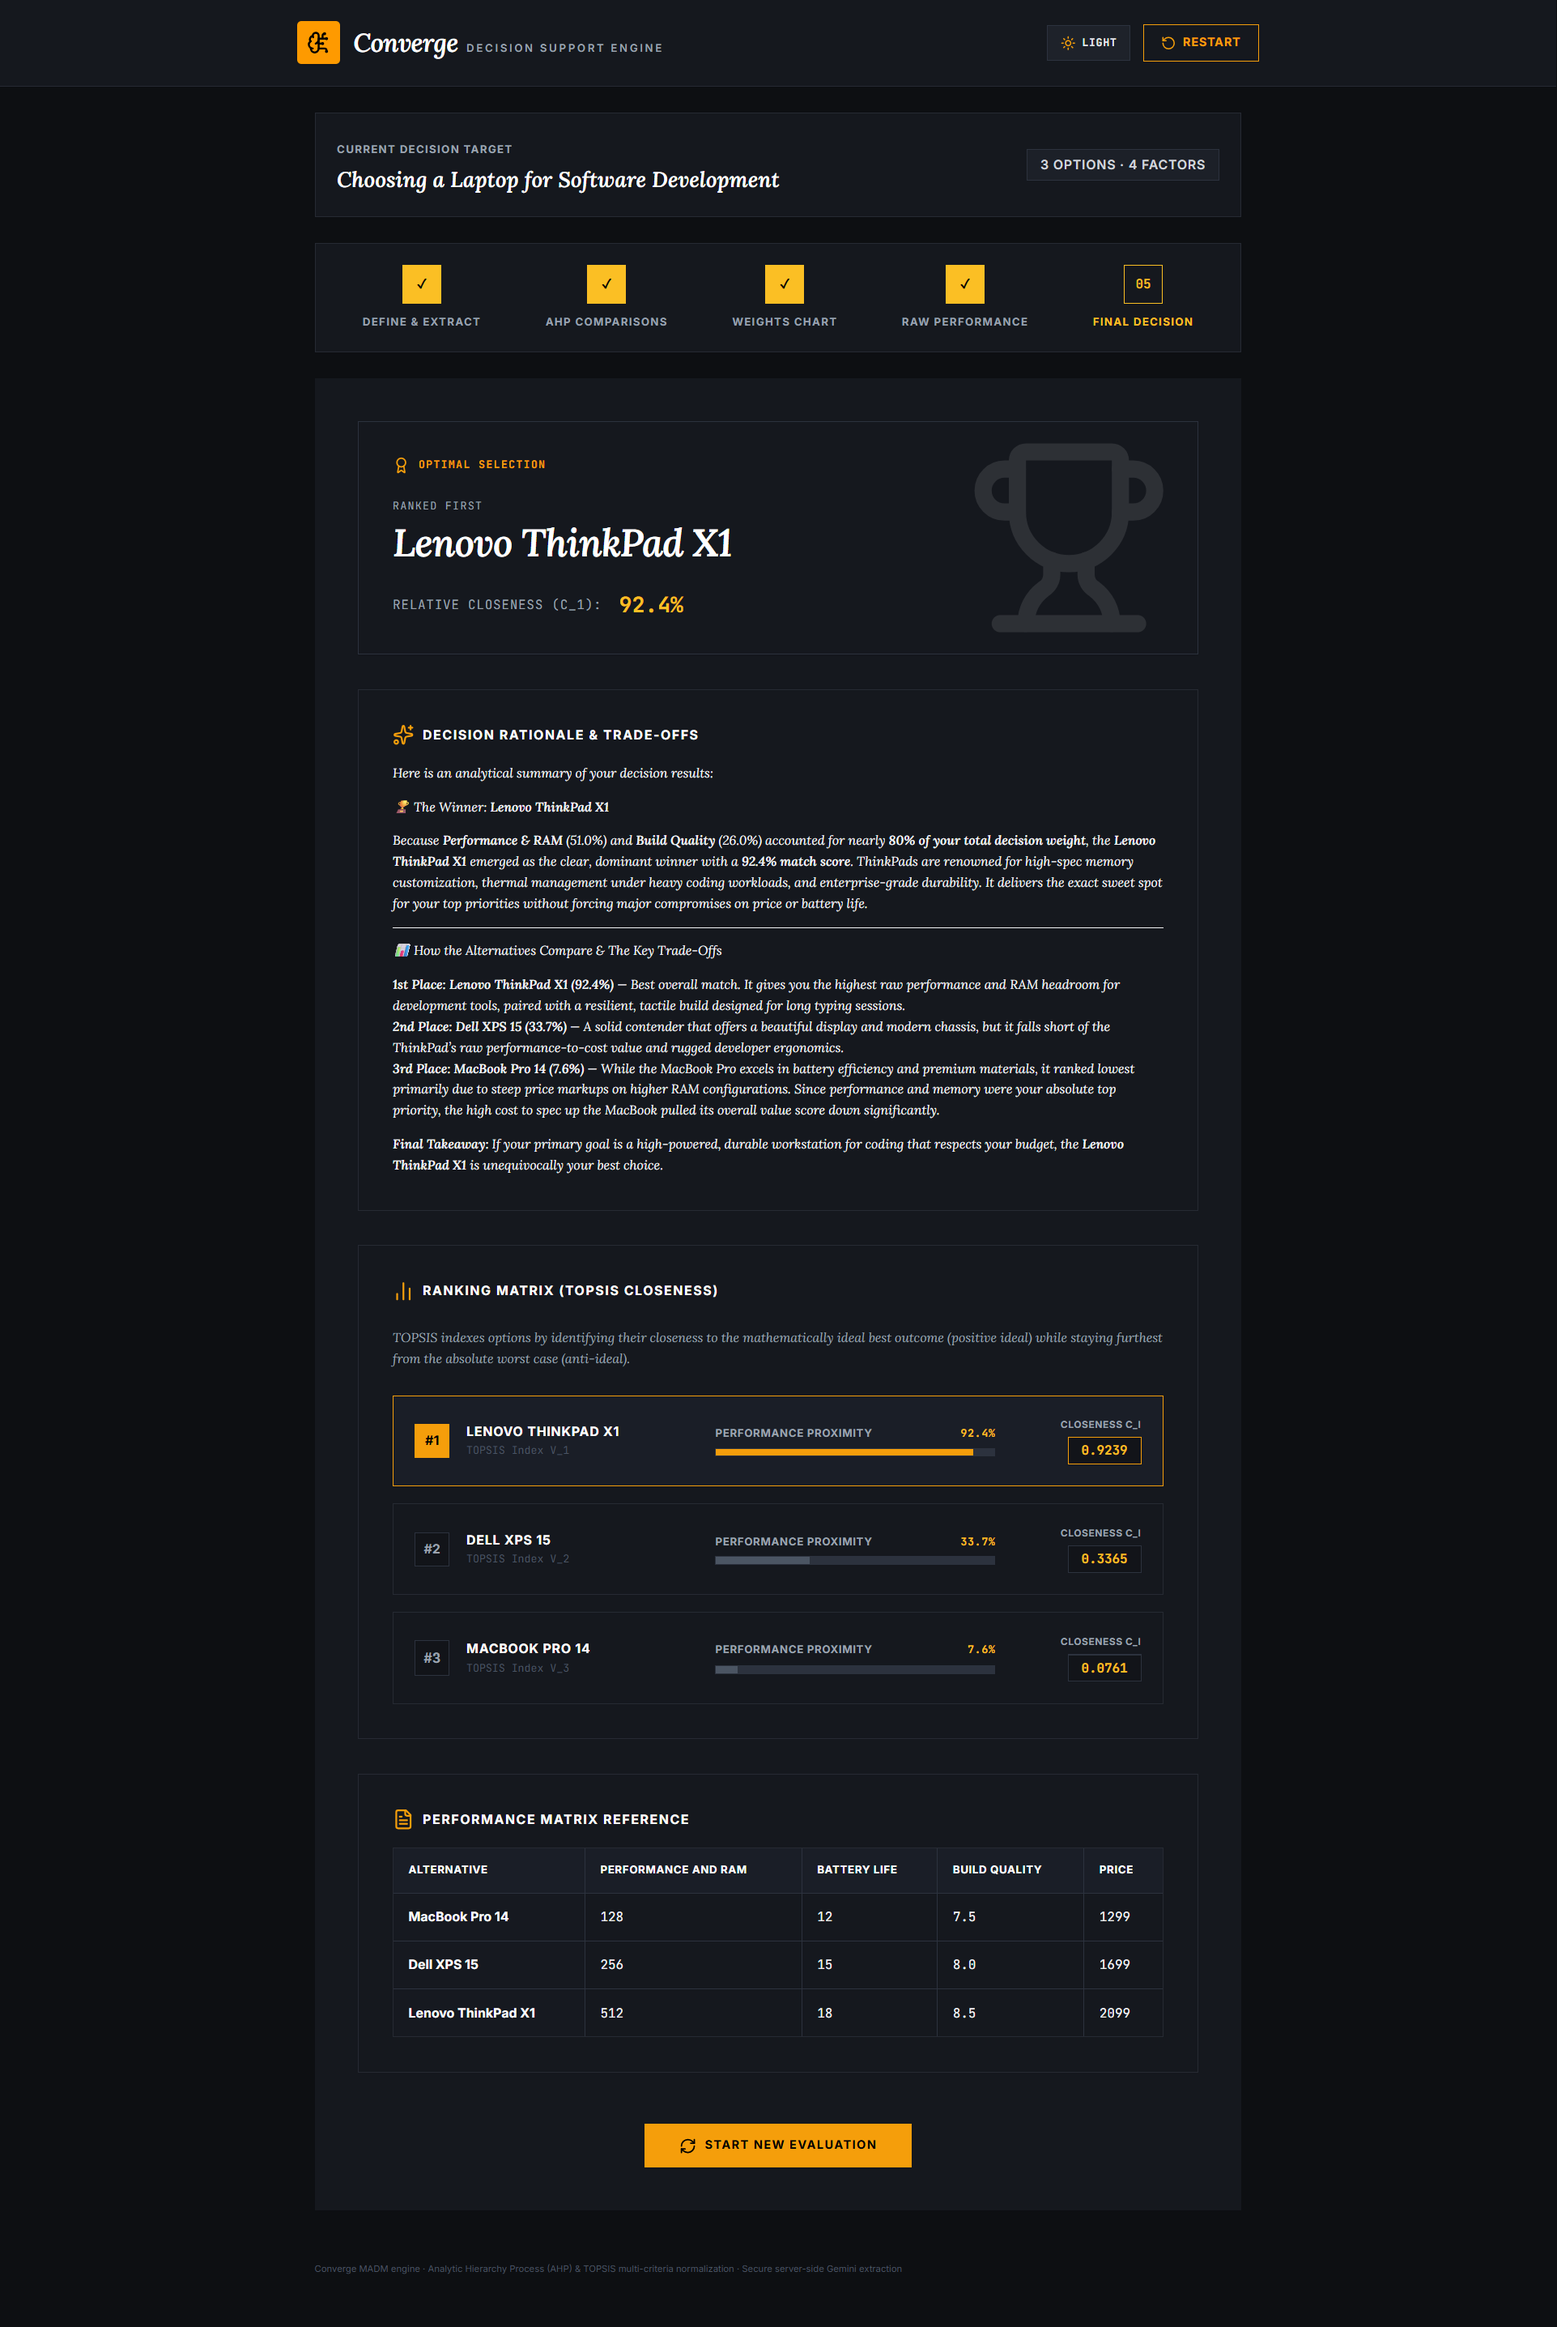
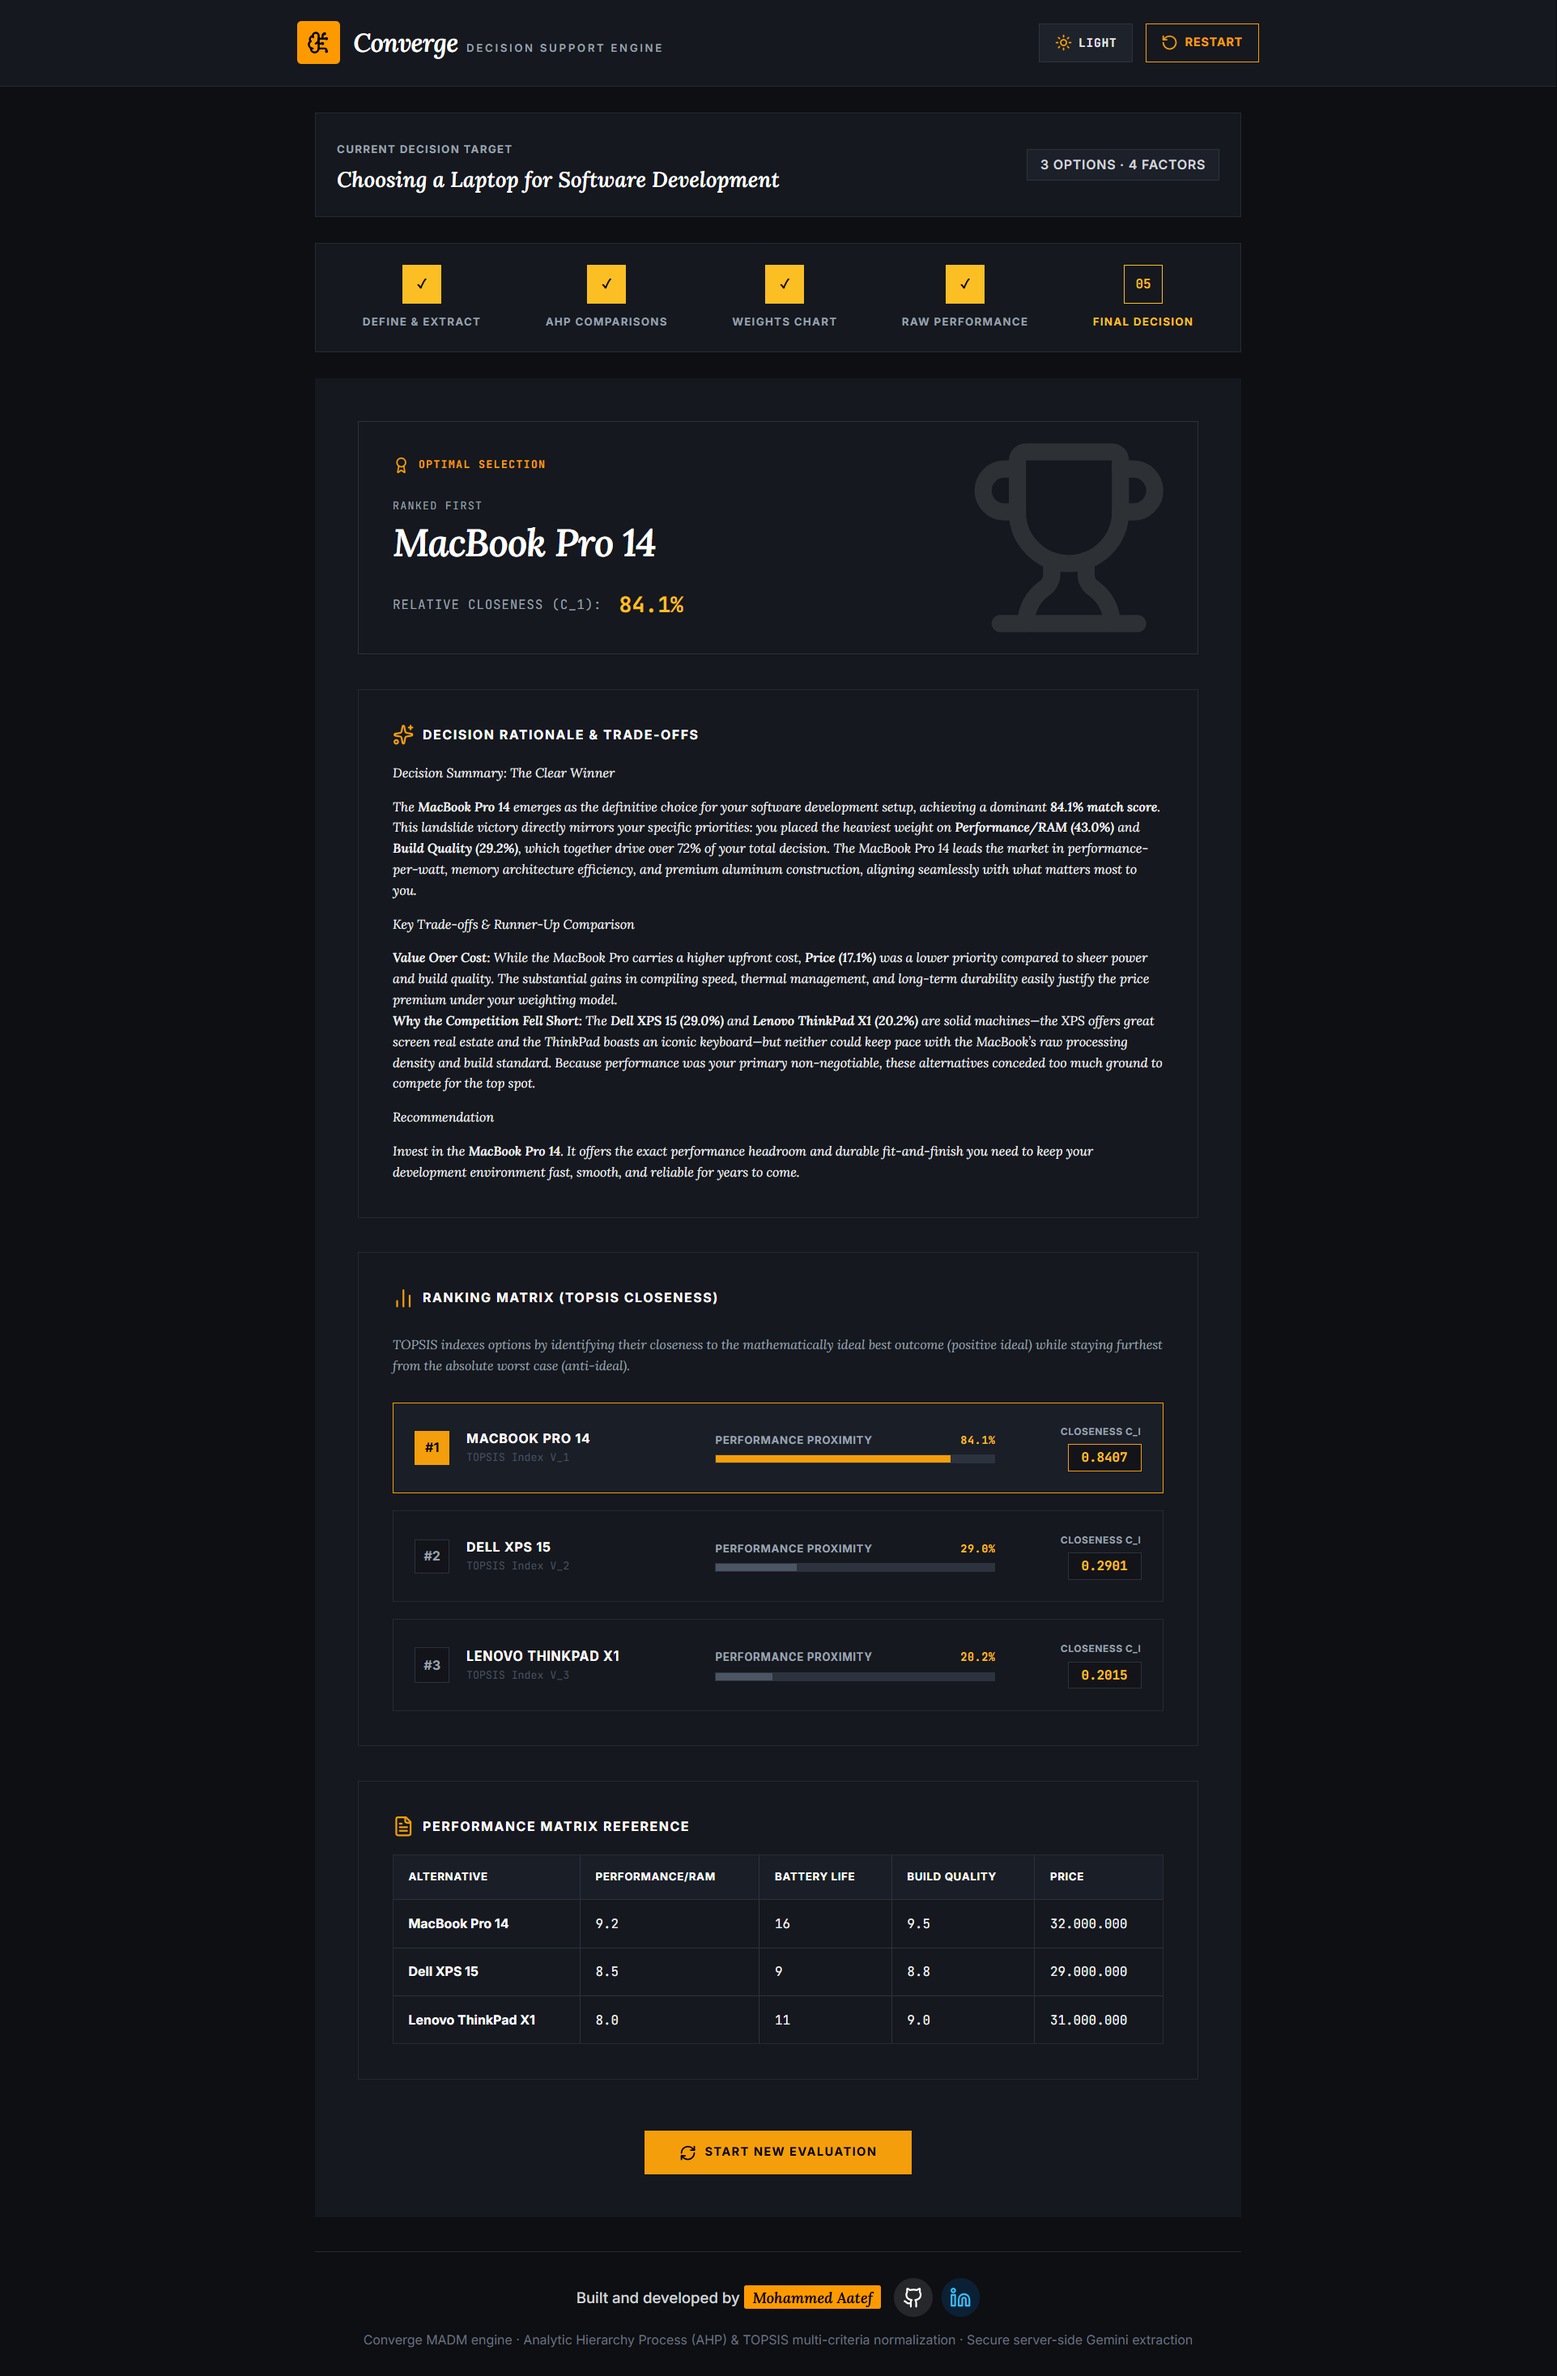
docs: add limitations section, fix live demo URL

diff --git a/LIMITATIONS.md b/LIMITATIONS.md
@@ -1,0 +1,55 @@
+# Known Limitations
+
+Converge is built on well-established multi-criteria decision analysis methods (AHP and TOPSIS). Like any implementation of these methods, it inherits some known theoretical properties and makes some deliberate engineering trade-offs. This document states them plainly, rather than letting them surface as surprises.
+
+---
+
+## 1. TOPSIS is susceptible to rank reversal
+
+**What this means:** TOPSIS ranks alternatives by their distance to a computed "ideal" and "anti-ideal" solution, which are derived from the *entire* set of alternatives being compared. Because of this, adding or removing an alternative — even a clearly non-competitive one — can shift the normalization basis enough to change the relative ranking of the *other* alternatives, without any change to their own underlying scores.
+
+**Why this happens:** This is a documented, long-standing property of TOPSIS with vector normalization, not a bug specific to this implementation. It has been studied extensively in the decision-science literature since the 1990s.
+
+**What this means for you:** If you add a new alternative to a decision you've already ranked, don't assume the existing ranking is unaffected — re-check the full result rather than only looking at whether the new alternative under- or out-performs the incumbents.
+
+**What we haven't done (and why):** Rank-reversal-resistant alternatives exist (e.g. linear max normalization, or reference-independent methods), each with their own trade-offs. Converge uses vector normalization, the standard approach from Hwang & Yoon's original TOPSIS formulation (1981). Switching normalization schemes is a deliberate methodological choice, not something we consider a "fix" without a documented reason for a different scheme.
+
+---
+
+## 2. AHP weights use an approximation, not the exact eigenvector method
+
+**What this means:** Saaty's original AHP method (1980) computes priority weights via the matrix's principal eigenvector. Converge instead uses **column normalization**, a widely-used approximation that avoids the computational complexity of eigenvector decomposition in a browser/JS environment.
+
+**How different is it?** On Saaty's own canonical 3×3 worked example, the exact method yields weights `[0.649, 0.279, 0.072]`; column normalization yields `[0.669, 0.243, 0.088]` — a few percentage points of difference per weight. This has been verified and documented internally (see `TEST_PROPOSAL_MATH.md`).
+
+**What this means for you:** Priority weights are a close approximation of the canonical method, not bit-for-bit identical to it. For most real-world decisions, this difference is small relative to the inherent imprecision of a human expressing preferences via pairwise comparisons in the first place.
+
+---
+
+## 3. AI-assisted criterion classification is reviewable, not blind
+
+**What this means:** When you describe a decision in plain English, Gemini extracts your criteria and classifies each one as **Benefit** (higher is better) or **Cost** (lower is better). If this classification were wrong and went unnoticed — e.g. "Commute Time" mistakenly marked as a benefit — the final ranking would be inverted.
+
+**The safeguard that exists:** Before any ranking is calculated, every criterion's Benefit/Cost classification is shown as an editable toggle on the "Define & Extract" screen. You can review and correct it before proceeding. This is a **human-in-the-loop check**, not a fully automated pipeline — the AI proposes, you can verify.
+
+**What this means for you:** Always glance at the Benefit/Cost tags before moving past Step 1, especially for criteria where the "higher/lower is better" direction isn't immediately obvious from the name alone (e.g. "Risk," "Turnover," "Lead Time").
+
+---
+
+## 4. Consistency adjustment is opt-in, never automatic
+
+**What this means:** If your pairwise comparisons are mathematically inconsistent (Consistency Ratio ≥ 10%), Converge can suggest an adjusted set of values that would bring your inputs into consistency. It uses log-ratio interpolation to find the smallest reasonable change, rather than naively averaging or overwriting your inputs.
+
+**The safeguard that exists:** This adjustment **only happens when you explicitly click "Smart Adjust" or "Apply Suggested Balance."** Your original comparisons are never silently modified by the app. You always retain full control over whether to accept the suggestion, tweak it further, or leave your original inconsistent judgments as-is.
+
+---
+
+## 5. Single-vendor AI dependency
+
+Natural language extraction relies on Google's Gemini API. If Gemini experiences an outage, a deprecated model, or an account-level issue (as documented in `KNOWN_ISSUES.md`), the extraction step will fail. There is currently no cross-provider fallback (e.g. to OpenAI or Anthropic). This is a scope decision appropriate for the project's current stage, not an oversight — but worth knowing if you're relying on this for a time-sensitive decision.
+
+---
+
+## Summary
+
+None of the above are hidden defects — they're properties and trade-offs inherent to the methods and architecture chosen. Where a safeguard already exists (criterion review, opt-in adjustment), it's described above. Where a limitation is structural to the method itself (rank reversal, weight approximation), it's disclosed rather than glossed over.

diff --git a/README.md b/README.md
@@ -15,7 +15,7 @@ Turn a messy real-world decision into a clear, mathematically-ranked answer — 
 
 <br>
 
-### [**🚀 Try the Live Demo →**](https://your-vercel-url-here.vercel.app)
+### [**🚀 Try the Live Demo →**](https://converge-madm.vercel.app/)
 
 </div>
 
@@ -140,6 +140,12 @@ converge-madm/
 - [ ] Sensitivity analysis (drag a weight, watch rankings shift live)
 - [ ] Full decision history (save/load named past decisions via database)
 - [ ] PDF / CSV export of results
+
+<br>
+
+## ⚠ Limitations
+
+This project is built on established decision-science methods that carry some known theoretical properties worth understanding. See [LIMITATIONS.md](./LIMITATIONS.md) for full details.
 
 <br>
 
